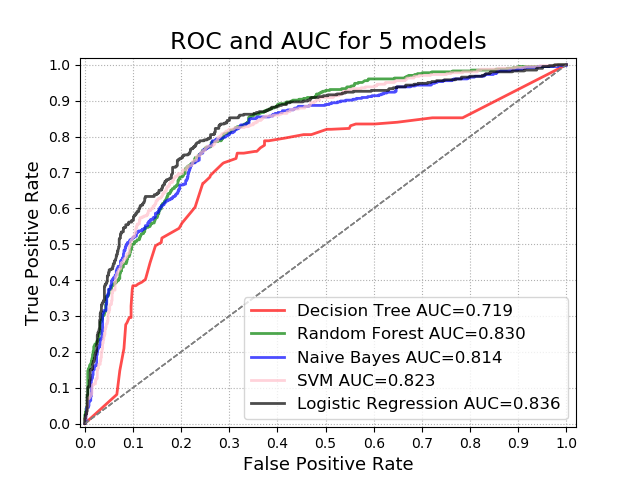
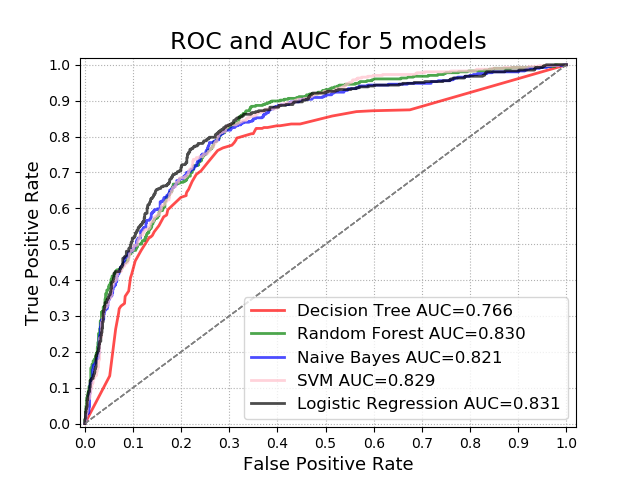
more random

diff --git a/ML_fp/sk_all.py b/ML_fp/sk_all.py
@@ -106,7 +106,9 @@ train_all = train.copy()
 train_all = train_all.drop(columns = 'transportation')
 test_all = train['transportation']
 
-train, test, target, test_target = train_test_split(train_all, test_all, test_size=0.30, random_state=0)
+#split data******
+train, test, target, test_target = train_test_split(train_all, test_all, test_size=0.30, random_state=100)
+#*************
 
 n_class = 3
 y_bin = label_binarize(test_target, np.arange(n_class))
